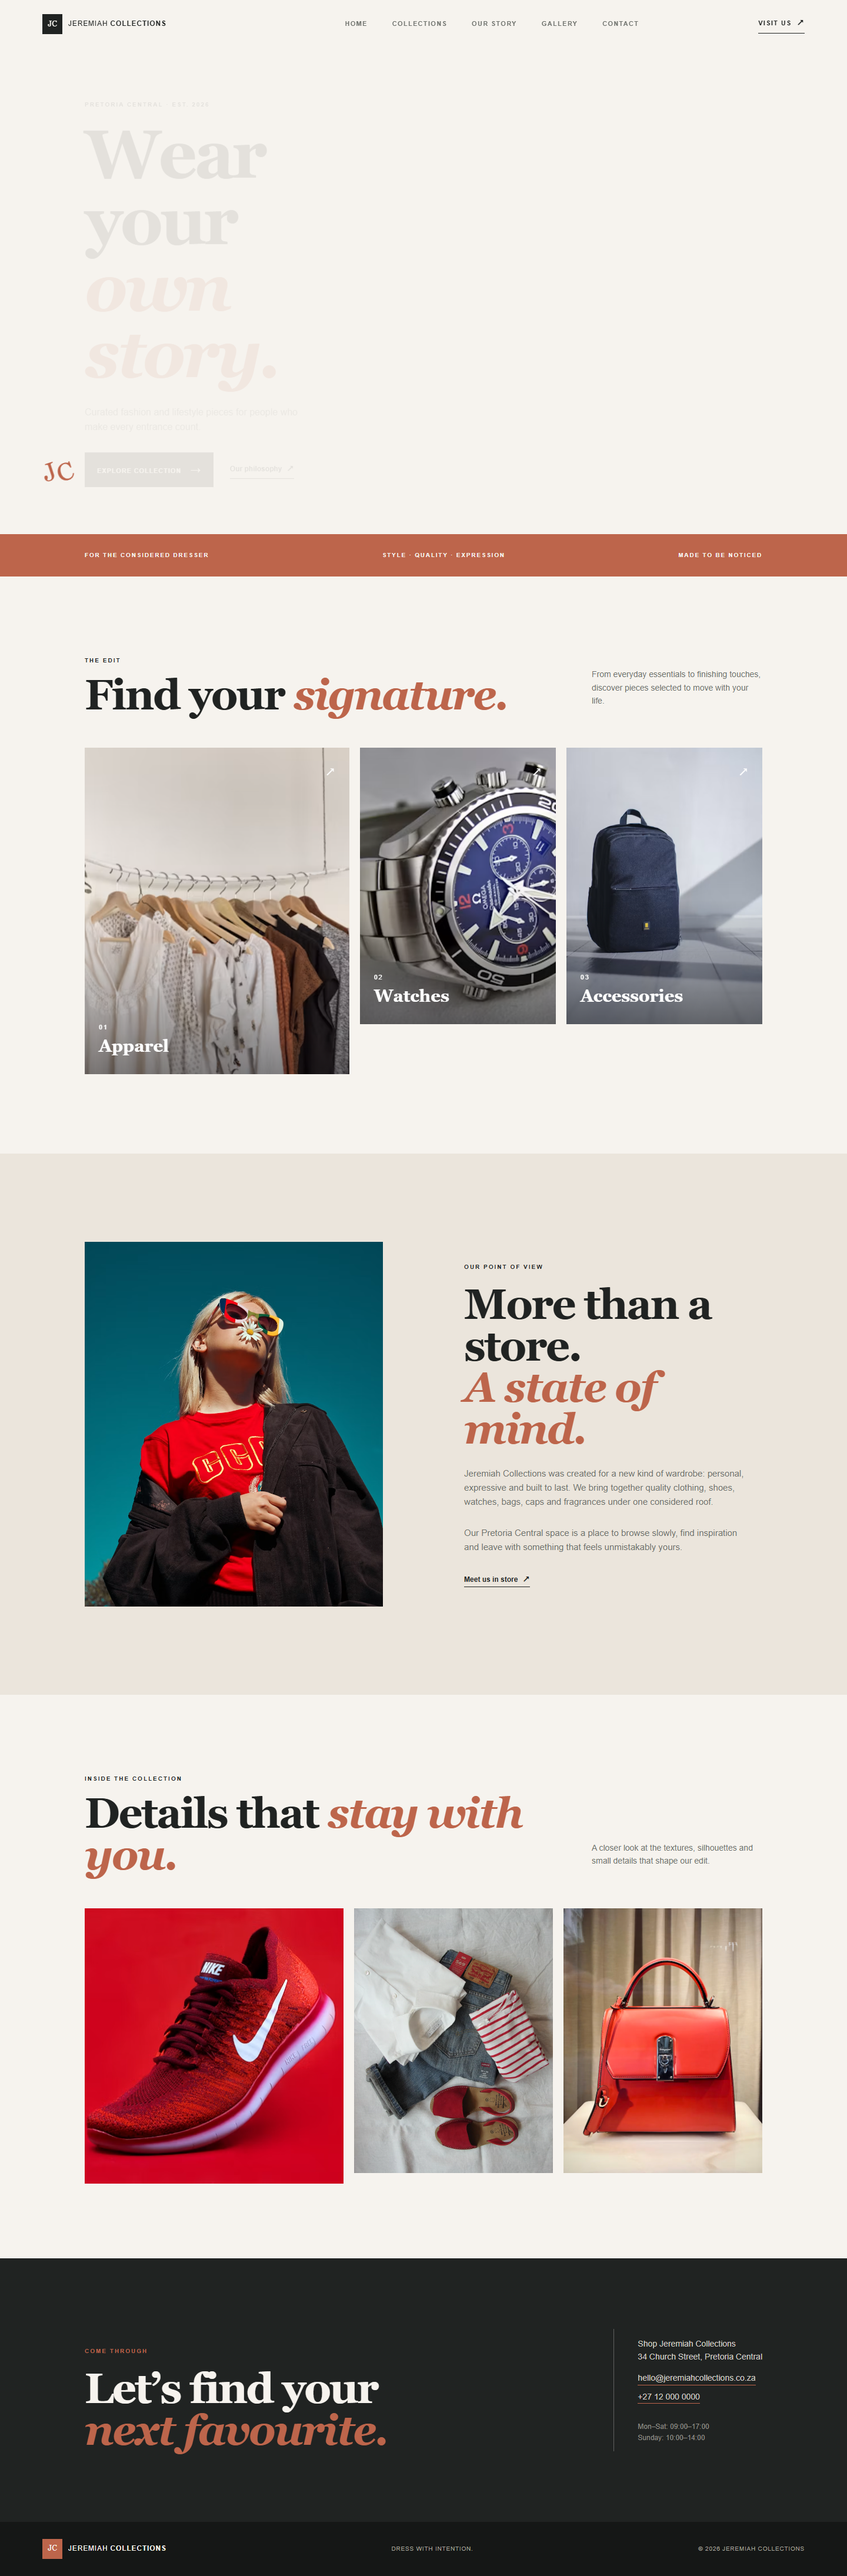
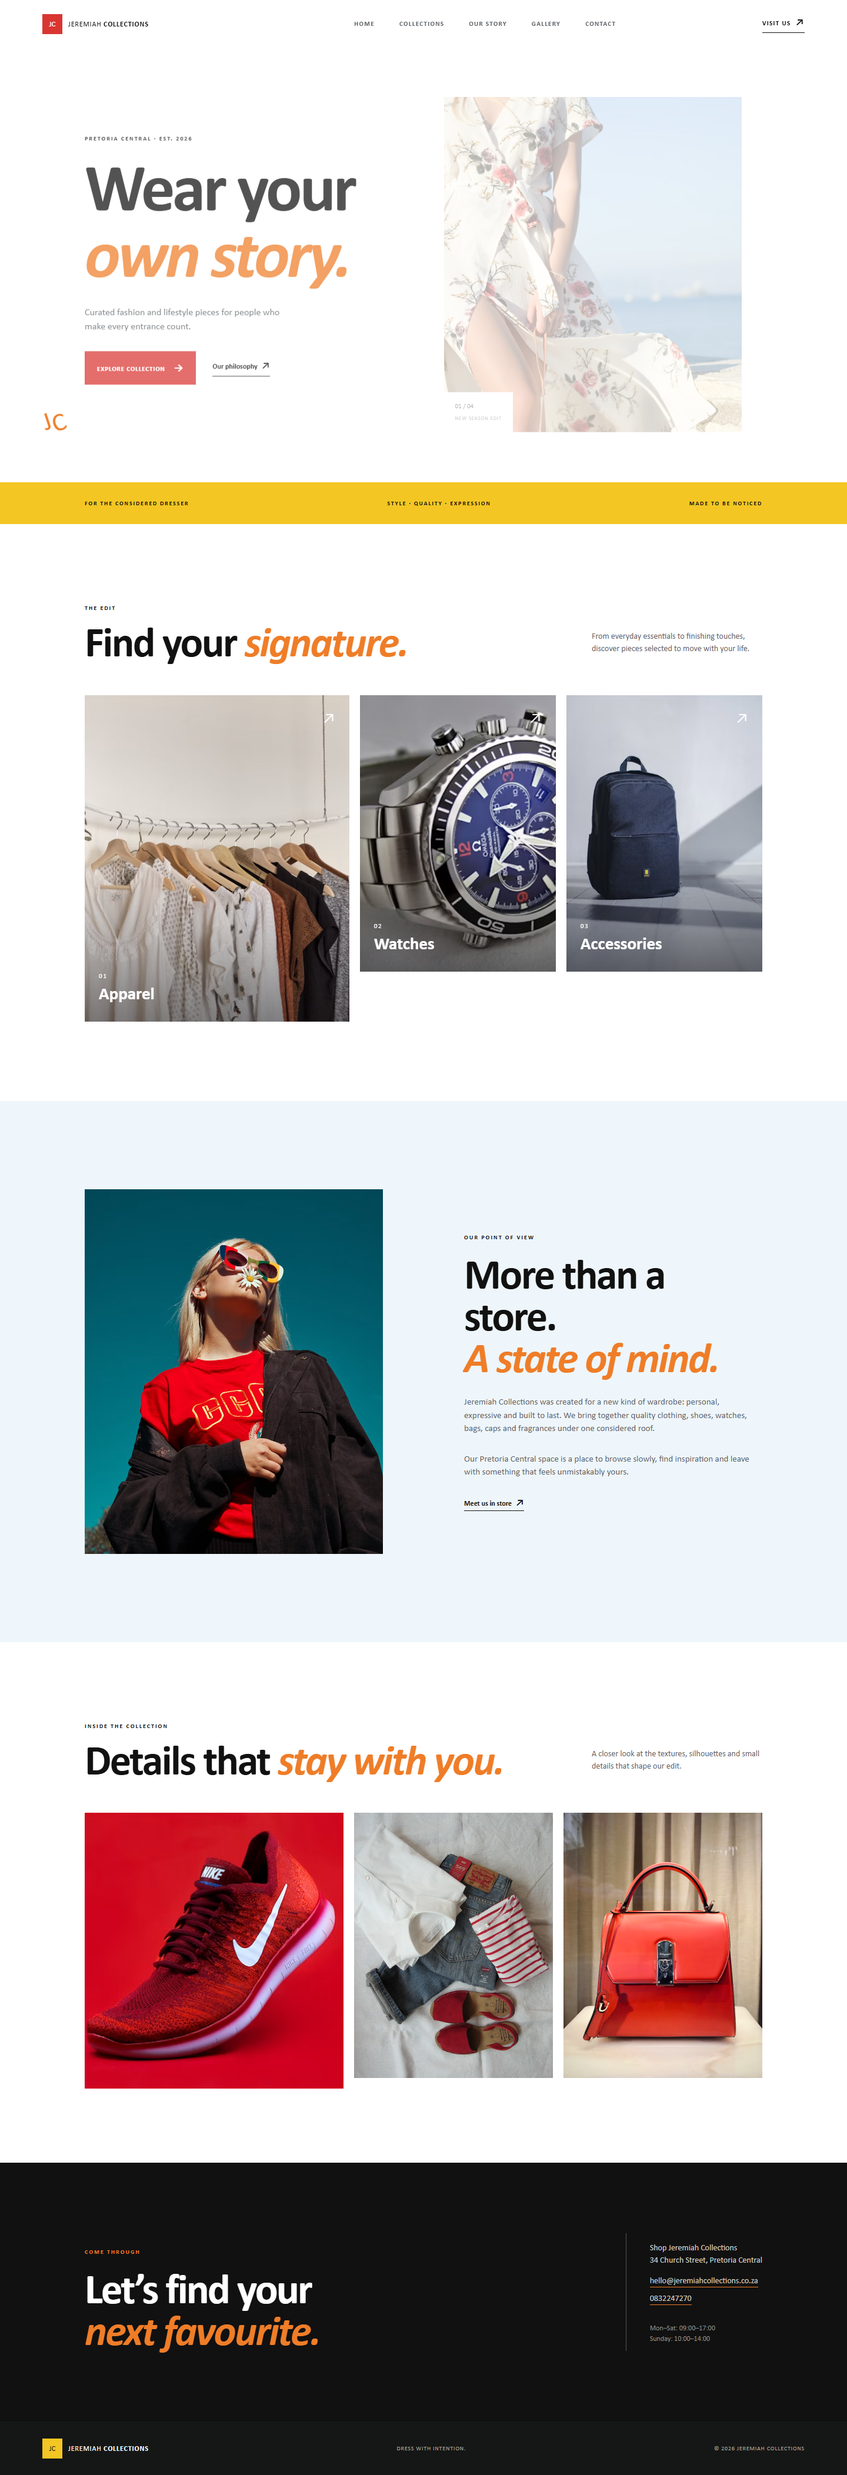
Personalize fashion categories and visual direction

diff --git a/styles.css b/styles.css
@@ -1,18 +1,22 @@
 :root {
-    --ink: #202322;
-    --muted: #6f726d;
-    --paper: #f6f3ee;
-    --cream: #ebe5dc;
-    --clay: #bd654b;
+    --ink: #111111;
+    --muted: #5d6267;
+    --paper: #ffffff;
+    --cream: #eef6fb;
+    --yellow: #f3c623;
+    --orange: #ef7d28;
+    --red: #d93632;
+    --blue: #8fc7e8;
     --line: rgba(32, 35, 34, 0.18);
-    --display: "Playfair Display", Georgia, serif;
-    --body: "DM Sans", Arial, sans-serif;
+    --display: Calibri, Arial, sans-serif;
+    --body: Calibri, Arial, sans-serif;
+    --clay: var(--orange);
 }
 
 /* Shared design tokens keep the visual system consistent across every page. */
 * { box-sizing: border-box; }
 html { scroll-behavior: smooth; }
-body { margin: 0; color: var(--ink); background: var(--paper); font-family: var(--body); line-height: 1.6; }
+body { margin: 0; color: var(--ink); background: var(--paper); font-family: var(--body); font-size: 11pt; line-height: 1.5; }
 img { display: block; width: 100%; height: 100%; object-fit: cover; }
 a { color: inherit; text-decoration: none; }
 
@@ -21,7 +25,7 @@ a { color: inherit; text-decoration: none; }
 .site-nav .active { color: var(--ink); }
 .brand { align-items: center; display: inline-flex; font-size: 12px; gap: 10px; letter-spacing: .07em; text-transform: uppercase; }
 .brand strong { font-weight: 700; }
-.brand-mark { align-items: center; background: var(--ink); color: var(--paper); display: inline-flex; font-family: var(--display); font-size: 13px; height: 34px; justify-content: center; letter-spacing: 0; width: 34px; }
+.brand-mark { align-items: center; background: var(--red); color: var(--paper); display: inline-flex; font-family: var(--display); font-size: 13px; height: 34px; justify-content: center; letter-spacing: 0; width: 34px; }
 .site-nav { display: flex; gap: clamp(18px, 3vw, 42px); margin-left: 7vw; }
 .site-nav a, .nav-cta { font-size: 11px; font-weight: 600; letter-spacing: .12em; text-transform: uppercase; }
 .site-nav a { color: var(--muted); transition: color .2s ease; }
@@ -32,14 +36,14 @@ a { color: inherit; text-decoration: none; }
 .hero { align-items: center; display: grid; grid-template-columns: 48% 44%; gap: 5%; min-height: 760px; padding: 150px 10vw 100px; position: relative; }
 .hero-copy { animation: rise .7s ease both; max-width: 550px; }
 .eyebrow { font-size: 10px; font-weight: 700; letter-spacing: .2em; margin: 0 0 20px; text-transform: uppercase; }
-h1, h2 { font-family: var(--display); font-weight: 600; line-height: .98; margin: 0; }
+h1, h2 { font-family: var(--display); font-weight: 700; line-height: .98; margin: 0; }
 h1 { font-size: clamp(60px, 8vw, 118px); letter-spacing: -.04em; }
 h2 { font-size: clamp(42px, 5vw, 72px); letter-spacing: -.035em; }
 em { color: var(--clay); font-style: italic; }
 .hero-text { color: var(--muted); font-size: 1rem; margin: 1.875rem 0; max-width: 365px; }
 .hero-actions { align-items: center; display: flex; flex-wrap: wrap; gap: 28px; }
 .button { display: inline-block; font-size: 11px; font-weight: 700; letter-spacing: .08em; padding: 16px 21px; text-transform: uppercase; }
-.button-dark { background: var(--ink); color: var(--paper); }
+.button-dark { background: var(--red); color: var(--paper); }
 .button span { font-size: 17px; margin-left: 12px; }
 .text-link { border-bottom: 1px solid var(--ink); font-size: 12px; font-weight: 700; padding-bottom: 5px; }
 .hero-image { animation: rise .7s .15s ease both; height: 570px; position: relative; }
@@ -52,6 +56,7 @@ em { color: var(--clay); font-style: italic; }
 .hero-stamp span { display: inline-block; transform: translateY(8px); }
 
 .intro-band { background: var(--clay); color: var(--paper); display: flex; font-size: 10px; font-weight: 700; justify-content: space-between; letter-spacing: .18em; padding: 18px 10vw; text-transform: uppercase; }
+.intro-band { background: var(--yellow); color: var(--ink); display: flex; font-size: 10px; font-weight: 700; justify-content: space-between; letter-spacing: .18em; padding: 18px 10vw; text-transform: uppercase; }
 .section { padding: 135px 10vw; }
 .section-heading { align-items: end; display: flex; justify-content: space-between; margin-bottom: 55px; }
 .section-heading .eyebrow { margin-bottom: 15px; }
@@ -61,6 +66,18 @@ em { color: var(--clay); font-style: italic; }
 .collection-card-large { height: 555px; }
 .collection-card img { transition: transform .6s ease; }
 .collection-card::after { background: linear-gradient(transparent 55%, rgba(0,0,0,.7)); bottom: 0; content: ""; left: 0; opacity: .7; position: absolute; right: 0; top: 0; }
+.category-grid { display: grid; gap: 12px; grid-template-columns: repeat(4, 1fr); }
+.category-card { border: 2px solid var(--ink); display: flex; flex-direction: column; min-height: 150px; padding: 18px; transition: transform .2s ease, box-shadow .2s ease; }
+.category-card:hover, .category-card:focus { box-shadow: 5px 5px 0 var(--ink); transform: translate(-2px, -2px); }
+.category-card span { font-size: 10px; font-weight: 700; letter-spacing: .15em; }
+.category-card strong { font-size: 20px; margin-top: auto; }
+.category-card small { font-size: 11px; }
+.category-yellow { background: var(--yellow); }
+.category-blue { background: var(--blue); }
+.category-orange { background: var(--orange); }
+.category-red { background: var(--red); color: var(--paper); }
+.category-black { background: var(--ink); color: var(--paper); }
+.category-white { background: var(--paper); }
 .card-label { bottom: 25px; color: white; font-size: 11px; left: 24px; letter-spacing: .15em; position: absolute; text-transform: uppercase; z-index: 1; }
 .card-label strong { display: block; font-family: var(--display); font-size: 29px; font-weight: 600; letter-spacing: 0; text-transform: none; }
 .card-arrow { color: white; font-size: 23px; position: absolute; right: 24px; top: 22px; z-index: 1; }
@@ -103,6 +120,8 @@ em { color: var(--clay); font-style: italic; }
 .product-feature h2 { margin-bottom: 25px; }
 .product-feature > div:last-child > p:not(.eyebrow) { color: var(--muted); font-size: 15px; margin: 0 0 28px; max-width: 340px; }
 .about-story { background: var(--cream); }
+.about-story { background: var(--blue); }
+.site-footer .brand-mark { background: var(--yellow); color: var(--ink); }
 .values { align-items: start; display: grid; gap: 12%; grid-template-columns: 35% 1fr; }
 .value-grid { display: grid; gap: 30px; grid-template-columns: repeat(3, 1fr); }
 .value-grid article { border-top: 1px solid var(--line); padding-top: 18px; }
@@ -137,6 +156,7 @@ em { color: var(--clay); font-style: italic; }
     .section { padding: 85px 7vw; }
     .section-heading { align-items: start; flex-direction: column; gap: 20px; margin-bottom: 35px; }
     .collection-grid { grid-template-columns: 1fr; }
+    .category-grid { grid-template-columns: repeat(2, 1fr); }
     .collection-card, .collection-card-large { height: 440px; }
     .story { display: flex; flex-direction: column; gap: 55px; padding-bottom: 90px; padding-top: 90px; }
     .story-image { height: 500px; width: 100%; }

diff --git a/products.html b/products.html
@@ -5,9 +5,6 @@
     <meta name="viewport" content="width=device-width, initial-scale=1.0">
     <meta name="description" content="Explore the Jeremiah Collections fashion and lifestyle edit.">
     <title>Collections | Jeremiah Collections</title>
-    <link rel="preconnect" href="https://fonts.googleapis.com">
-    <link rel="preconnect" href="https://fonts.gstatic.com" crossorigin>
-    <link href="https://fonts.googleapis.com/css2?family=DM+Sans:wght@400;500;600;700&family=Playfair+Display:wght@600;700&display=swap" rel="stylesheet">
     <link rel="stylesheet" href="styles.css">
 </head>
 <body>
@@ -18,9 +15,23 @@
     </header>
     <main>
         <section class="page-hero"><p class="eyebrow">The edit / 01</p><h1>Pieces with<br><em>presence.</em></h1><p>Explore the considered collection, from wardrobe foundations to the details that complete the look.</p></section>
+        <section class="category-section section" aria-labelledby="category-heading">
+            <div class="section-heading"><div><p class="eyebrow">Shop by category</p><h2 id="category-heading">Your drip,<br><em>your way.</em></h2></div><p class="section-intro">A sharper edit for customers who value class, confidence and great fashion sense.</p></div>
+            <div class="category-grid">
+                <a class="category-card category-yellow" href="#apparel"><span>01</span><strong>Hoodies</strong><small>Comfort with character</small></a>
+                <a class="category-card category-blue" href="#apparel"><span>02</span><strong>T-shirts</strong><small>Clean everyday staples</small></a>
+                <a class="category-card category-orange" href="#apparel"><span>03</span><strong>Jorts &amp; shorts</strong><small>Easy summer style</small></a>
+                <a class="category-card category-red" href="#apparel"><span>04</span><strong>Cargo pants</strong><small>Utility, done properly</small></a>
+                <a class="category-card category-black" href="#apparel"><span>05</span><strong>Sweatpants</strong><small>Relaxed but polished</small></a>
+                <a class="category-card category-white" href="#accessories"><span>06</span><strong>Sneakers</strong><small>Make every step count</small></a>
+                <a class="category-card category-orange" href="#accessories"><span>07</span><strong>Boots</strong><small>Built to stand out</small></a>
+                <a class="category-card category-blue" href="#watches"><span>08</span><strong>Watches</strong><small>The finishing detail</small></a>
+            </div>
+        </section>
         <section class="product-list section">
-            <article class="product-feature" id="apparel"><div class="product-image"><img src="https://images.unsplash.com/photo-1490481651871-ab68de25d43d?auto=format&fit=crop&w=1000&q=85" srcset="https://images.unsplash.com/photo-1490481651871-ab68de25d43d?auto=format&fit=crop&w=600&q=80 600w, https://images.unsplash.com/photo-1490481651871-ab68de25d43d?auto=format&fit=crop&w=1000&q=85 1000w" sizes="(max-width: 800px) 86vw, 55vw" alt="Curated neutral clothing collection"></div><div><p class="eyebrow">01 / Apparel</p><h2>Everyday,<br><em>elevated.</em></h2><p>Clean silhouettes, comfortable textures and pieces that work as hard as you do. Build a wardrobe that feels like you on your best day.</p><a class="text-link" href="contact.html">Shop the edit <span aria-hidden="true">↗</span></a></div></article>
+            <article class="product-feature" id="apparel"><div class="product-image"><img src="https://images.unsplash.com/photo-1490481651871-ab68de25d43d?auto=format&fit=crop&w=1000&q=85" srcset="https://images.unsplash.com/photo-1490481651871-ab68de25d43d?auto=format&fit=crop&w=600&q=80 600w, https://images.unsplash.com/photo-1490481651871-ab68de25d43d?auto=format&fit=crop&w=1000&q=85 1000w" sizes="(max-width: 800px) 86vw, 55vw" alt="Curated neutral clothing collection"></div><div><p class="eyebrow">01 / Apparel</p><h2>Everyday,<br><em>elevated.</em></h2><p>Our apparel edit covers hoodies, T-shirts, jorts, cargo pants and sweatpants for customers who want comfort without losing their sense of style.</p><a class="text-link" href="contact.html">Shop the edit <span aria-hidden="true">↗</span></a></div></article>
             <article class="product-feature product-feature-reverse" id="watches"><div class="product-image"><img src="https://images.unsplash.com/photo-1523170335258-f5ed11844a49?auto=format&fit=crop&w=1000&q=85" srcset="https://images.unsplash.com/photo-1523170335258-f5ed11844a49?auto=format&fit=crop&w=600&q=80 600w, https://images.unsplash.com/photo-1523170335258-f5ed11844a49?auto=format&fit=crop&w=1000&q=85 1000w" sizes="(max-width: 800px) 86vw, 55vw" alt="Classic watch with a leather strap"></div><div><p class="eyebrow">02 / Watches</p><h2>Keep time<br><em>beautifully.</em></h2><p>Distinctive timepieces chosen for their balance of craft and character. A quiet statement that stays with you.</p><a class="text-link" href="contact.html">Enquire in store <span aria-hidden="true">↗</span></a></div></article>
+            <article class="product-feature product-feature-reverse" id="watches"><div class="product-image"><img src="https://images.unsplash.com/photo-1523170335258-f5ed11844a49?auto=format&fit=crop&w=1000&q=85" srcset="https://images.unsplash.com/photo-1523170335258-f5ed11844a49?auto=format&fit=crop&w=600&q=80 600w, https://images.unsplash.com/photo-1523170335258-f5ed11844a49?auto=format&fit=crop&w=1000&q=85 1000w" sizes="(max-width: 800px) 86vw, 55vw" alt="Classic watch with a leather strap"></div><div><p class="eyebrow">02 / Watches</p><h2>Keep time<br><em>beautifully.</em></h2><p>The watch image you supplied is represented here as its own category: a clean finishing detail for a customer with class.</p><a class="text-link" href="contact.html">Enquire in store <span aria-hidden="true">↗</span></a></div></article>
             <article class="product-feature" id="accessories"><div class="product-image"><img src="https://images.unsplash.com/photo-1553062407-98eeb64c6a62?auto=format&fit=crop&w=1000&q=85" srcset="https://images.unsplash.com/photo-1553062407-98eeb64c6a62?auto=format&fit=crop&w=600&q=80 600w, https://images.unsplash.com/photo-1553062407-98eeb64c6a62?auto=format&fit=crop&w=1000&q=85 1000w" sizes="(max-width: 800px) 86vw, 55vw" alt="Structured leather bag and accessories"></div><div><p class="eyebrow">03 / Accessories</p><h2>Finish with<br><em>intention.</em></h2><p>Bags, caps, shoes and fragrances that add the final note to an unmistakably personal look.</p><a class="text-link" href="contact.html">Visit the store <span aria-hidden="true">↗</span></a></div></article>
         </section>
         <section class="contact-band"><div><p class="eyebrow">A closer look</p><h2>Find your<br><em>next favourite.</em></h2></div><div class="contact-details"><p>34 Church Street<br>Pretoria Central</p><a href="contact.html">Plan your visit ↗</a></div></section>

diff --git a/contact.html b/contact.html
@@ -2,7 +2,7 @@
 <html lang="en">
 <head>
     <meta charset="UTF-8"><meta name="viewport" content="width=device-width, initial-scale=1.0"><meta name="description" content="Visit or contact Jeremiah Collections in Pretoria Central."><title>Contact | Jeremiah Collections</title>
-    <link rel="preconnect" href="https://fonts.googleapis.com"><link rel="preconnect" href="https://fonts.gstatic.com" crossorigin><link href="https://fonts.googleapis.com/css2?family=DM+Sans:wght@400;500;600;700&family=Playfair+Display:wght@600;700&display=swap" rel="stylesheet"><link rel="stylesheet" href="styles.css">
+    <link rel="stylesheet" href="styles.css">
 </head>
 <body>
     <header class="site-header page-header"><a class="brand" href="index.html" aria-label="Jeremiah Collections home"><span class="brand-mark">JC</span><span>Jeremiah <strong>Collections</strong></span></a><nav class="site-nav" aria-label="Main navigation"><a href="index.html">Home</a><a href="products.html">Collections</a><a href="about.html">Our Story</a><a href="gallery.html">Gallery</a><a class="active" href="contact.html">Contact</a></nav><a class="nav-cta" href="contact.html">Visit us <span aria-hidden="true">↗</span></a></header>

diff --git a/about.html b/about.html
@@ -5,8 +5,7 @@
     <meta name="viewport" content="width=device-width, initial-scale=1.0">
     <meta name="description" content="Learn about the Jeremiah Collections fashion store and its point of view.">
     <title>Our Story | Jeremiah Collections</title>
-    <link rel="preconnect" href="https://fonts.googleapis.com"><link rel="preconnect" href="https://fonts.gstatic.com" crossorigin>
-    <link href="https://fonts.googleapis.com/css2?family=DM+Sans:wght@400;500;600;700&family=Playfair+Display:wght@600;700&display=swap" rel="stylesheet"><link rel="stylesheet" href="styles.css">
+    <link rel="stylesheet" href="styles.css">
 </head>
 <body>
     <header class="site-header page-header"><a class="brand" href="index.html" aria-label="Jeremiah Collections home"><span class="brand-mark">JC</span><span>Jeremiah <strong>Collections</strong></span></a><nav class="site-nav" aria-label="Main navigation"><a href="index.html">Home</a><a href="products.html">Collections</a><a class="active" href="about.html">Our Story</a><a href="gallery.html">Gallery</a><a href="contact.html">Contact</a></nav><a class="nav-cta" href="contact.html">Visit us <span aria-hidden="true">↗</span></a></header>

diff --git a/gallery.html b/gallery.html
@@ -2,7 +2,7 @@
 <html lang="en">
 <head>
     <meta charset="UTF-8"><meta name="viewport" content="width=device-width, initial-scale=1.0"><meta name="description" content="A visual gallery from Jeremiah Collections."><title>Gallery | Jeremiah Collections</title>
-    <link rel="preconnect" href="https://fonts.googleapis.com"><link rel="preconnect" href="https://fonts.gstatic.com" crossorigin><link href="https://fonts.googleapis.com/css2?family=DM+Sans:wght@400;500;600;700&family=Playfair+Display:wght@600;700&display=swap" rel="stylesheet"><link rel="stylesheet" href="styles.css">
+    <link rel="stylesheet" href="styles.css">
 </head>
 <body>
     <header class="site-header page-header"><a class="brand" href="index.html" aria-label="Jeremiah Collections home"><span class="brand-mark">JC</span><span>Jeremiah <strong>Collections</strong></span></a><nav class="site-nav" aria-label="Main navigation"><a href="index.html">Home</a><a href="products.html">Collections</a><a href="about.html">Our Story</a><a class="active" href="gallery.html">Gallery</a><a href="contact.html">Contact</a></nav><a class="nav-cta" href="contact.html">Visit us <span aria-hidden="true">↗</span></a></header>

diff --git a/index.html b/index.html
@@ -5,9 +5,6 @@
     <meta name="viewport" content="width=device-width, initial-scale=1.0">
     <meta name="description" content="Jeremiah Collections is a modern fashion and lifestyle store in Pretoria Central.">
     <title>Jeremiah Collections | Dress With Intention</title>
-    <link rel="preconnect" href="https://fonts.googleapis.com">
-    <link rel="preconnect" href="https://fonts.gstatic.com" crossorigin>
-    <link href="https://fonts.googleapis.com/css2?family=DM+Sans:wght@400;500;600;700&family=Playfair+Display:wght@600;700&display=swap" rel="stylesheet">
     <link rel="stylesheet" href="styles.css">
 </head>
 <body>

diff --git a/README.md b/README.md
@@ -33,7 +33,9 @@ I chose Jeremiah Collections because it is close to me and affordable. It also o
 - External CSS stylesheet with reusable custom properties and responsive media queries.
 - Relative navigation links between all pages.
 - Descriptive alternative text for images.
-- Typography uses Playfair Display for headings and DM Sans for body copy.
+- Typography uses Calibri, 11pt body text and 1.5 line spacing to follow the supplied brief.
+- Customers are described as people with class, strong fashion sense and an interest in current "drip".
+- Product categories include hoodies, T-shirts, jorts/shorts, cargo pants, sweatpants, sneakers, boots and watches.
 - Responsive image loading uses `srcset` and `sizes` attributes.
 - Relative CSS units, percentages, media queries and breakpoint-specific layouts are used.
 - Layout tested for desktop, tablet and mobile widths.
